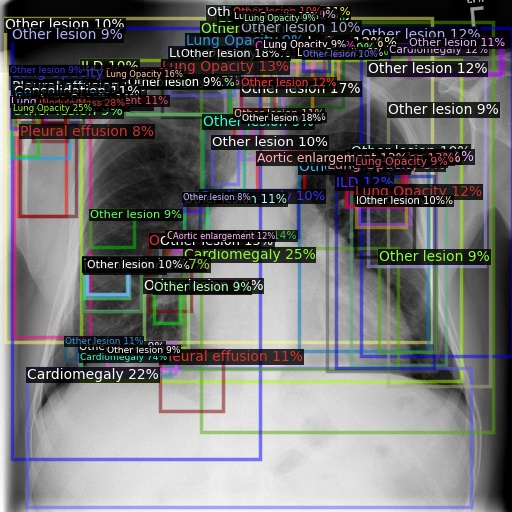
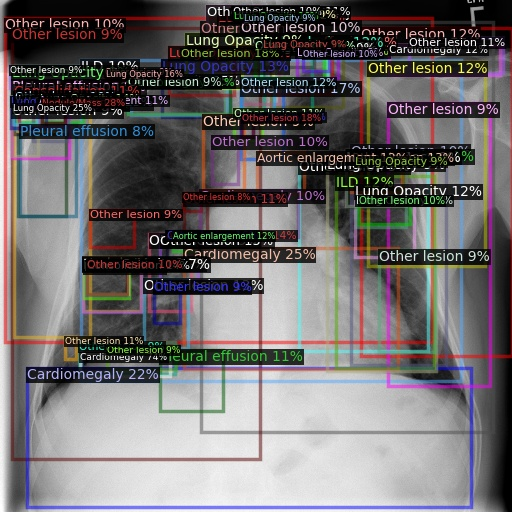
update app.py

Changed region(s): [[0.0, 0.0, 1.0, 1.0]]

diff --git a/src/FasterRCNN/App.py b/src/FasterRCNN/App.py
@@ -42,7 +42,7 @@ cfg.MODEL.ROI_HEADS.NUM_CLASSES = len(thing_classes)
 
 cfg.MODEL.WEIGHTS = str(traineddir/"model_final.pth")
 print("Original thresh", cfg.MODEL.ROI_HEADS.SCORE_THRESH_TEST)  # 0.05
-cfg.MODEL.ROI_HEADS.SCORE_THRESH_TEST = 0.00  # set a custom testing threshold
+cfg.MODEL.ROI_HEADS.SCORE_THRESH_TEST = 0.5  # set a custom testing threshold
 print("Changed  thresh", cfg.MODEL.ROI_HEADS.SCORE_THRESH_TEST)
 predictor = DefaultPredictor(cfg)
 
